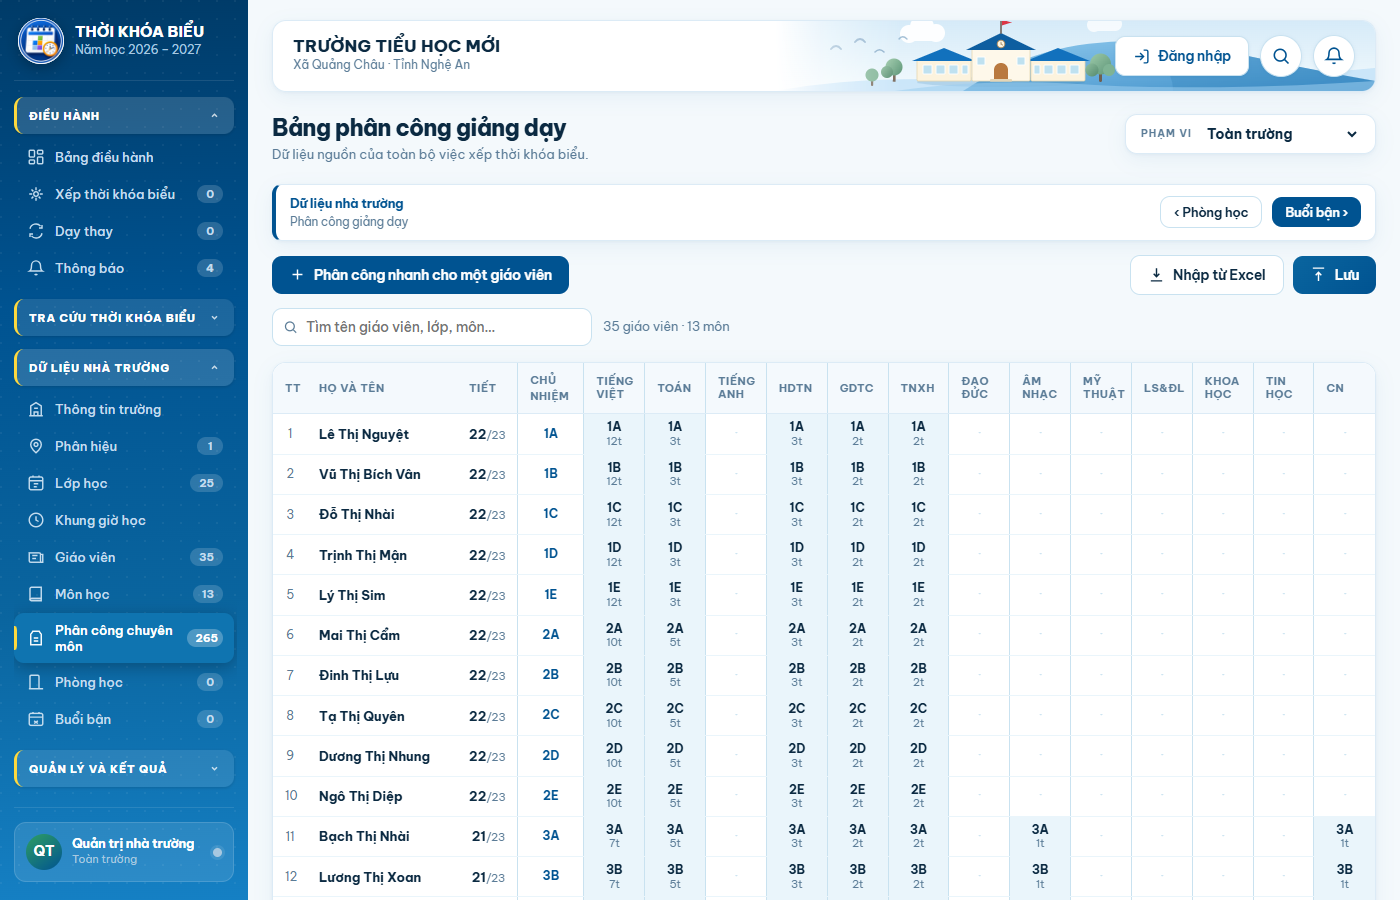
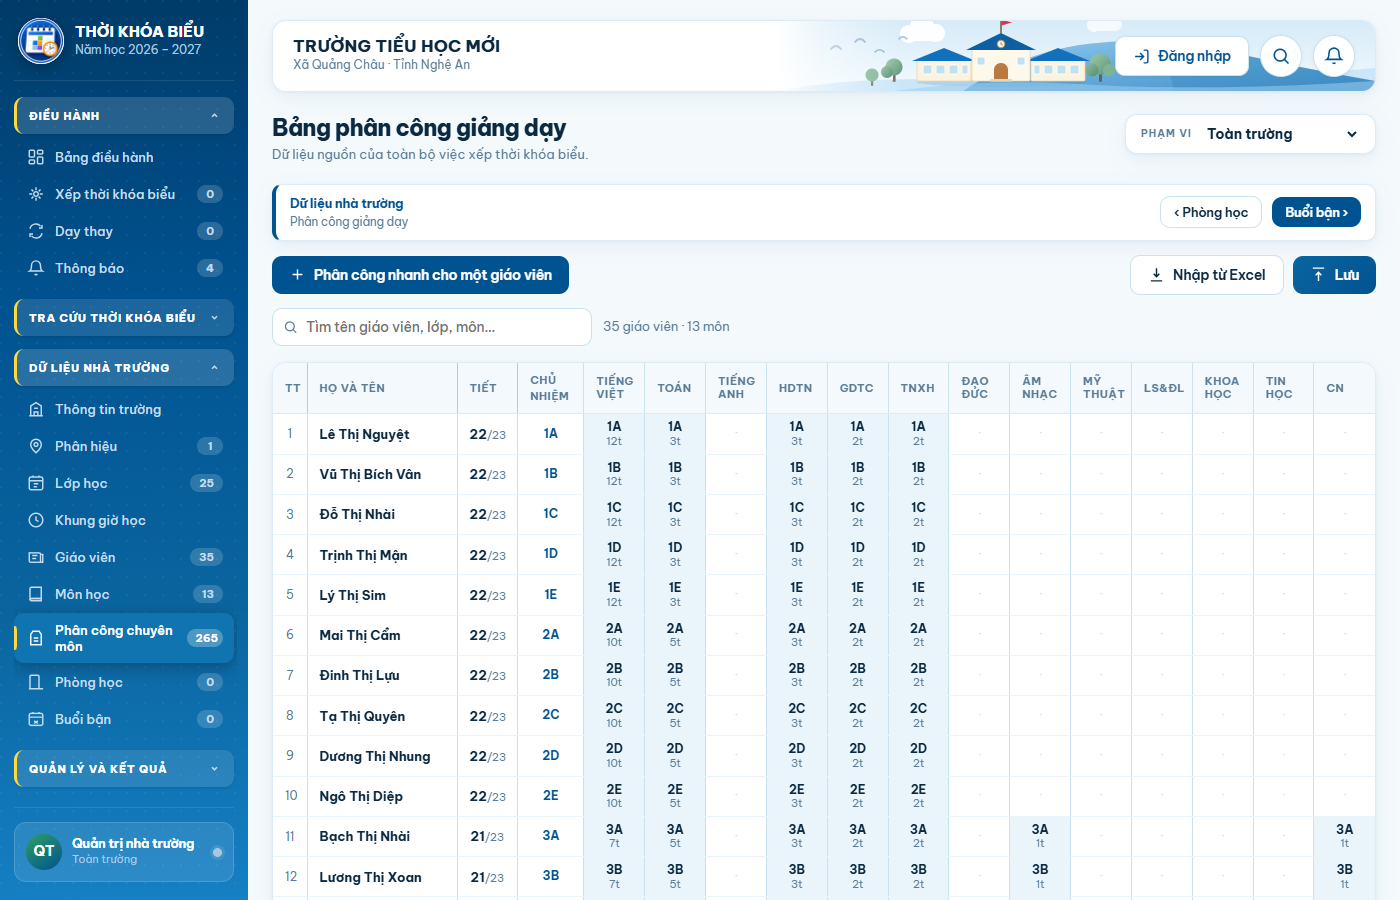
Ke doc du moi cot ma tran, tieu de ke dam hon, cot Tiet can giua
- Ke doc cho MOI cot (.mt-bang th,td{border-left}): truoc chi cot mon co
  ke, ba cot trai dinh lien mot mang. Cot dau bo ke — vien khung .bang da
  co, ke nua thanh vach doi.
- Ke giua cac o tieu de dam hon mot tong (#AECEE6): nen tieu de nhat nen
  ke --ke-2 chim nghim.
- Cot Tiet can GIUA o ca tieu de, than va hang day — can phai thi con so
  dinh sat vach ke vua them.
- 3 phep thu moi cuoi muc 17p, thu nguoc 4/4 deu do.

Claude-Session: https://claude.ai/code/session_01AH4BLTEKy26FKdMaSypQsU

diff --git a/src/index.html b/src/index.html
@@ -1168,7 +1168,12 @@ tr.pa-tot td{background:var(--xanh-nen)}
    width cứng nên giữ nguyên cỡ. Sàn bề ngang đặt inline theo SỐ MÔN
    (`bangMaTran()`) — màn hẹp thì bảng trượt ngang, không bóp nát chữ. */
 .mt-bang{border-collapse:separate;border-spacing:0;table-layout:fixed}
-.mt-bang th,.mt-bang td{border-bottom:1px solid #EAF5FB}
+/* Kẻ DỌC cho MỌI cột (1/9/2026 — chủ dự án: "Giữa Cột thứ tự - Cột Họ và
+   Tên - Cột Tiết phải có dòng kẻ dễ phân biệt"): trước chỉ các cột môn có
+   kẻ, ba cột trái dính liền nhau một mảng. Cột đầu bỏ kẻ — viền khung
+   .bang đã có sẵn, kẻ nữa là thành vạch đôi. */
+.mt-bang th,.mt-bang td{border-bottom:1px solid #EAF5FB;border-left:1px solid var(--ke-2)}
+.mt-bang th:first-child,.mt-bang td:first-child{border-left:0}
 /* Khung cuộn là CHÍNH .mt-khung (1/9/2026 — chủ dự án: trường 86 giáo viên
    thì kéo tới giữa bảng là mất dòng tên môn). Giới hạn chiều cao để dòng
    tiêu đề môn dính ĐỈNH và hàng đếm độ phủ dính ĐÁY — cuộn tới đâu cũng
@@ -1178,7 +1183,11 @@ tr.pa-tot td{background:var(--xanh-nen)}
    khai nowrap + padding 15px, mà cột môn chia đều chỉ ~60px — giữ nguyên là
    "TIẾNG VIỆT" bị cắt cụt thành "TIẾNG V". */
 .mt-bang thead th{position:sticky;top:0;background:#F4F9FD;z-index:3;box-shadow:0 1px 0 var(--ke);
-  white-space:normal;padding-left:6px;padding-right:6px}
+  white-space:normal;padding-left:6px;padding-right:6px;
+  /* Kẻ giữa các Ô TIÊU ĐỀ đậm hơn một tông (#AECEE6 — cùng mã với thanh
+     cuộn, đậm hơn --ke-2): nền tiêu đề #F4F9FD nhạt nên kẻ --ke-2 chìm
+     nghỉm, các ô dính liền một dải. Chủ dự án 1/9/2026. */
+  border-left-color:#AECEE6}
 .mt-dinh{position:sticky;background:var(--the);z-index:2}
 .mt-bang thead .mt-dinh{background:#F4F9FD;z-index:4}
 .mt-tt{left:0;width:34px;text-align:center;color:var(--chu-mo);font-size:11.5px}
@@ -14158,7 +14167,10 @@ function bangMaTran(){
     style="min-width:${306+dsMon.length*60}px"><thead><tr>
     <th class="mt-dinh mt-tt">TT</th>
     <th class="mt-dinh mt-ten">Họ và tên</th>
-    <th class="phai">Tiết</th>
+    ${''/* Tiết căn GIỮA, không căn phải (1/9/2026 — chủ dự án: "chữ số 27/23
+          cần căn giữa cột cho dễ phân biệt"): căn phải thì con số dính sát
+          vạch kẻ vừa thêm, đọc thành một khối với cột Chủ nhiệm. */}
+    <th class="giua">Tiết</th>
     <th class="giua mt-cn">Chủ nhiệm</th>
     ${dsMon.map(m=>`<th class="giua mt-mon"><span>${esc(m)}</span></th>`).join('')}
     </tr></thead><tbody>
@@ -14177,7 +14189,7 @@ function bangMaTran(){
         <td class="mt-dinh mt-ten"><b>${esc(g.hoTen)}</b></td>
         ${''/* nowrap: cột hẹp thì "/23" rơi xuống dòng dưới và hàng lại cao
               gấp rưỡi — đúng thứ vừa chữa ở cột chủ nhiệm. */}
-        <td class="phai mt-tiet"><b class="${tiet>dm?'do':tiet?'xanh':'cam'}">${tiet}</b><span
+        <td class="giua mt-tiet"><b class="${tiet>dm?'do':tiet?'xanh':'cam'}">${tiet}</b><span
           style="color:var(--chu-mo);font-size:11px">/${dm}</span></td>
         <td class="giua mt-cn">${cn?`<b>${esc(tenLopDay(cn.id))}</b>`:'<span class="mt-trong">·</span>'}</td>
         ${dsMon.map(m=>{
@@ -14190,7 +14202,7 @@ function bangMaTran(){
     </tbody><tfoot><tr>
       <td class="mt-dinh mt-tt"></td>
       <td class="mt-dinh mt-ten"><b>Số lớp đã có người dạy</b></td>
-      <td class="phai"><b>${S.phanCong.reduce((s,p)=>s+p.soTiet,0)}</b></td>
+      <td class="giua"><b>${S.phanCong.reduce((s,p)=>s+p.soTiet,0)}</b></td>
       <td class="giua"></td>
       ${dsMon.map(m=>{
         const lop=new Set(S.phanCong.filter(p=>p.mon===m).map(p=>p.lopId)).size;

diff --git a/docs/lich-su-quyet-dinh.md b/docs/lich-su-quyet-dinh.md
@@ -3008,3 +3008,20 @@ TÊN MÔN — môn tên dài phình ra, môn tên ngắn tóp lại.
 Phép thử: 3 phép mới cuối mục 17p (`table-layout:fixed` · sàn theo số môn
 · tiêu đề xuống dòng); thử ngược 3/3 đều đỏ. Dựng đúng cảnh 19 môn của
 Vinh Hưng bằng Chrome thật để soi ảnh trước và sau.
+
+## 1/9/2026 (đêm, tiếp 2) — Kẻ dọc đủ mọi cột ma trận, cột Tiết căn giữa
+
+Chủ dự án, vẫn từ bảng TH Vinh Hưng 1: tiêu đề *"cho dòng kẻ rõ hơn, hoặc
+cho màu khác một chút"*, và *"Giữa Cột thứ tự - Cột Họ và Tên - Cột Tiết
+phải có dòng kẻ dễ phân biệt, chữ số 27/23 cần căn giữa cột"*.
+
+- **Kẻ dọc cho MỌI cột** (`.mt-bang th,td{border-left}`): trước chỉ các cột
+  môn có kẻ, ba cột trái dính liền một mảng. ⚠ Cột đầu bỏ kẻ — viền khung
+  `.bang` đã có sẵn, kẻ nữa thành vạch đôi.
+- **Kẻ giữa các ô tiêu đề đậm hơn một tông** (`#AECEE6`, cùng mã với thanh
+  cuộn): nền tiêu đề `#F4F9FD` nhạt nên kẻ `--ke-2` chìm nghỉm.
+- **Cột Tiết căn GIỮA** ở cả tiêu đề · thân · hàng đáy — căn phải thì con
+  số dính sát vạch kẻ vừa thêm, đọc thành một khối với cột Chủ nhiệm.
+
+Phép thử: 3 phép cuối mục 17p, thử ngược 4/4 đỏ (kể cả chiều "trả Tiết về
+căn phải"). Soi bằng Chrome thật trên đúng cảnh 19 môn.
